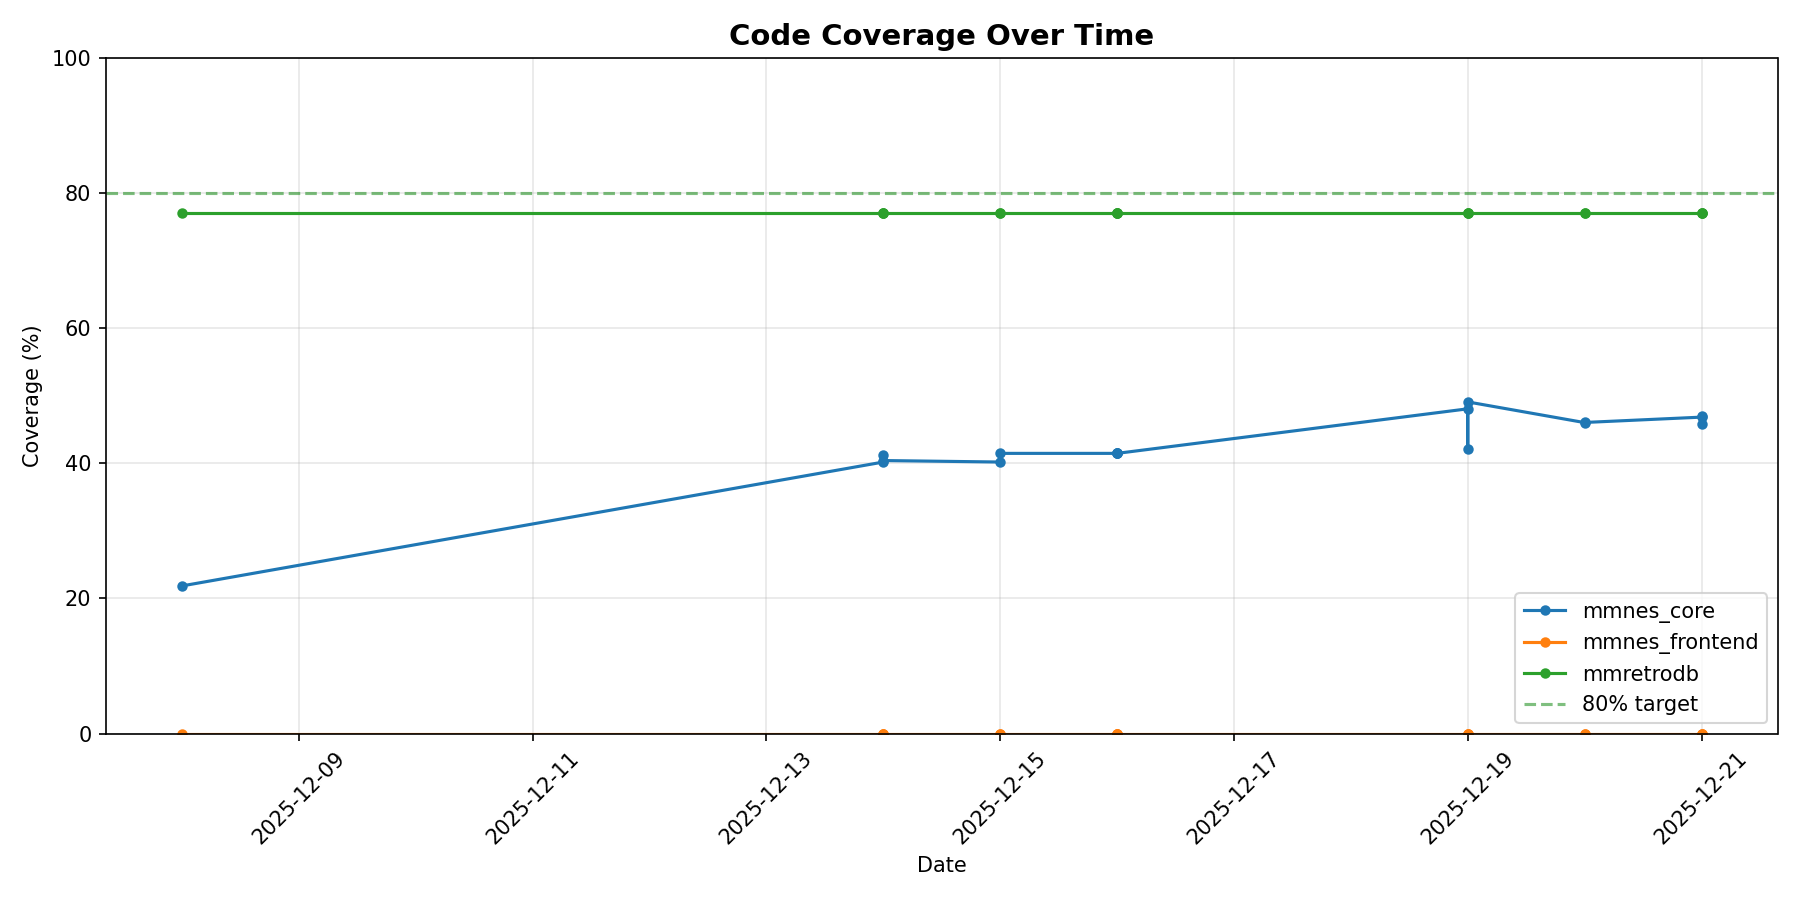
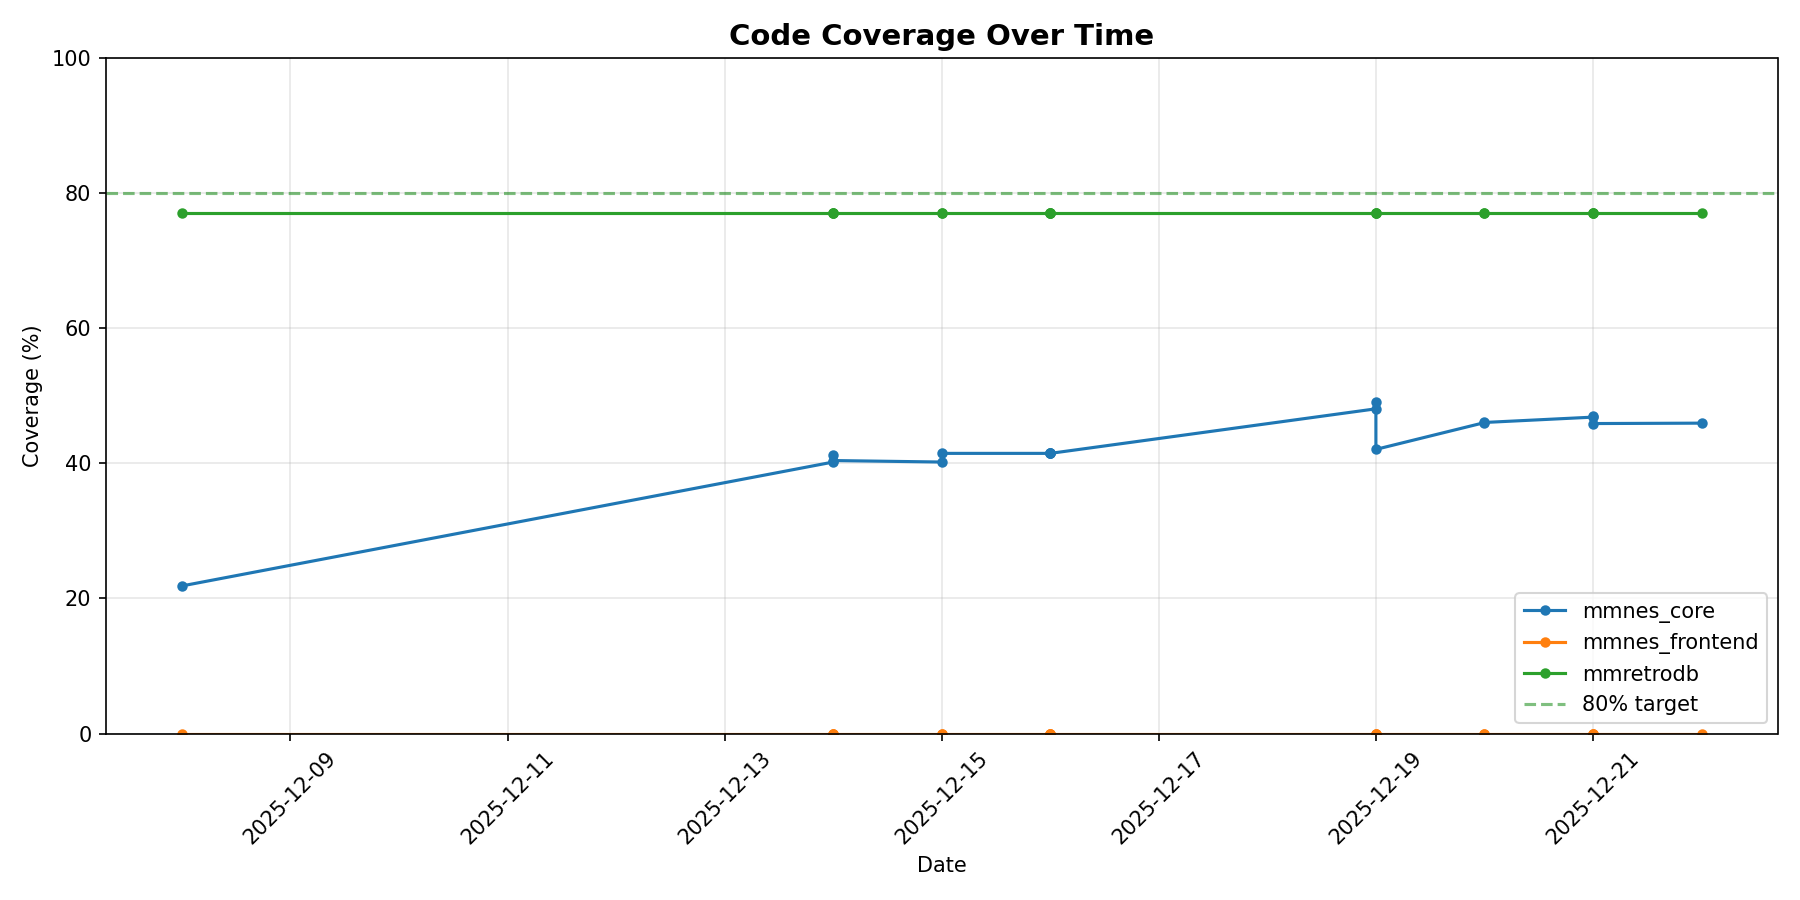
Update metrics data [skip ci]

diff --git a/metrics/data/METRICS_SUMMARY.md b/metrics/data/METRICS_SUMMARY.md
@@ -1,15 +1,15 @@
 # Code Quality Metrics Summary
 
-*Generated: 2025-12-21 20:19:46*
+*Generated: 2025-12-22 19:34:42*
 
-**Latest commit:** `b19f153` on `main`
+**Latest commit:** `67c28df` on `main`
 
 ## Per-Crate Metrics
 
 | Crate | LOC | Functions | Avg Cyclo | Coverage | Human % | Claude % |
 |-------|-----|-----------|-----------|----------|---------|----------|
 | mmnes_frontend | 4044 | 293 | 3.6 | 0.0% | 98.9% | 1.1% |
-| mmnes_core | 25330 | 1404 | 2.8 | 45.9% | 51.8% | 48.2% |
+| mmnes_core | 25580 | 1404 | 2.8 | 45.9% | 51.2% | 48.8% |
 | mmretrodb | 596 | 58 | 2.8 | 77.0% | 100.0% | 0.0% |
 
 ## Definitions
